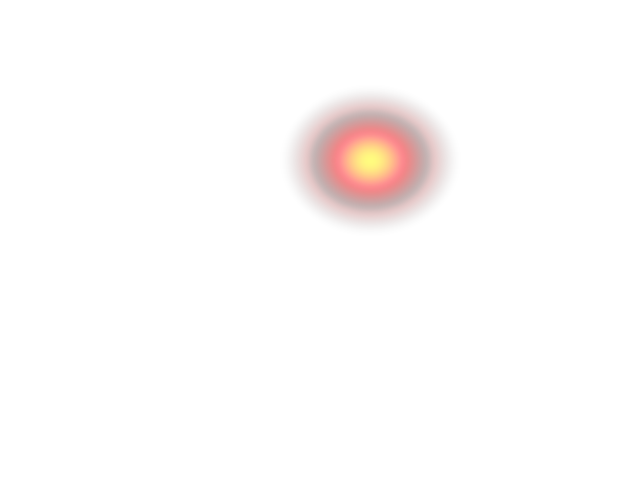
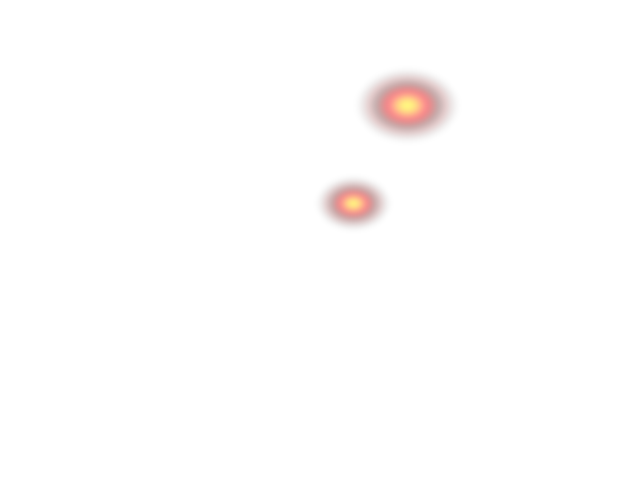
fix: multi-hotspot heatmap for scenario-08 (2 defects), improved overlay generator

Changed region(s): [[0.4375, 0.1562, 0.7188, 0.4688]]

diff --git a/backend/generate_overlays.py b/backend/generate_overlays.py
@@ -19,7 +19,10 @@ SCENARIO_DEFECTS = {
     "scenario-05": {"cx": 340, "cy": 230, "rx": 50, "ry": 40},    # contamination
     "scenario-06": {"cx": 335, "cy": 240, "rx": 50, "ry": 35},    # anomaly
     "scenario-07": {"cx": 335, "cy": 240, "rx": 50, "ry": 35},    # anomaly
-    "scenario-08": {"cx": 370, "cy": 160, "rx": 60, "ry": 50},    # pcb multi
+    "scenario-08": [
+        {"cx": 353, "cy": 203, "rx": 25, "ry": 18},   # missing cap C14
+        {"cx": 407, "cy": 105, "rx": 35, "ry": 25},   # crack on U7
+    ],
     "scenario-09": {"cx": 335, "cy": 230, "rx": 50, "ry": 35},    # anomaly
     "scenario-10": {"cx": 320, "cy": 240, "rx": 150, "ry": 30},   # scratch
     "scenario-11": {"cx": 420, "cy": 149, "rx": 40, "ry": 18},    # solder bridge on IC pins
@@ -30,76 +33,74 @@ SCENARIO_DEFECTS = {
 KIOSK_DEFECTS = {
     "839-041322-002": {"cx": 320, "cy": 240, "rx": 150, "ry": 30},
     "715-098456-003": {"cx": 390, "cy": 160, "rx": 30, "ry": 30},
-    "444-027654-002": {"cx": 370, "cy": 160, "rx": 60, "ry": 50},
+    "444-027654-002": [
+        {"cx": 353, "cy": 203, "rx": 25, "ry": 18},   # missing cap
+        {"cx": 407, "cy": 105, "rx": 35, "ry": 25},   # crack
+    ],
     "444-027654-003": {"cx": 420, "cy": 149, "rx": 40, "ry": 18},
     "444-027654-004": {"cx": 392, "cy": 240, "rx": 25, "ry": 20},
 }
 
 
 def generate_heatmap(defect: dict, filename: Path):
-    """Generate XAI heatmap — red/yellow gradient centered on defect location."""
+    """Generate XAI heatmap — red/yellow gradient. Supports single defect or list."""
     w, h = IMG_SIZE
-    cx, cy = defect["cx"], defect["cy"]
-    rx, ry = defect["rx"], defect["ry"]
+    arr = np.zeros((h, w, 4), dtype=np.float32)
 
-    # Create RGBA image (transparent background)
-    img = Image.new("RGBA", IMG_SIZE, (0, 0, 0, 0))
-    arr = np.zeros((h, w, 4), dtype=np.uint8)
+    # Support both single defect dict and list of defects
+    defects = defect if isinstance(defect, list) else [defect]
 
-    # Generate gaussian-like heatmap
-    Y, X = np.ogrid[:h, :w]
-    dist = ((X - cx) / (rx * 1.5)) ** 2 + ((Y - cy) / (ry * 1.5)) ** 2
+    for d in defects:
+        cx, cy = d["cx"], d["cy"]
+        rx, ry = d["rx"], d["ry"]
+        Y, X = np.ogrid[:h, :w]
+        dist = ((X - cx) / (rx * 1.5)) ** 2 + ((Y - cy) / (ry * 1.5)) ** 2
+        intensity = np.clip(1.0 - dist, 0, 1) ** 1.5
+        # Accumulate
+        for y in range(h):
+            for x in range(w):
+                val = float(intensity[y, x])
+                if val > 0.01:
+                    if val > 0.8:
+                        r, g, b = 255, int(255 * (val - 0.8) / 0.2), 50
+                    elif val > 0.4:
+                        r, g, b = int(255 * (val - 0.4) / 0.4), 0, 0
+                    else:
+                        r, g, b = int(180 * val / 0.4), 0, 0
+                    alpha = val * 160
+                    # Take max intensity for overlapping regions
+                    if alpha > arr[y, x, 3]:
+                        arr[y, x] = [r, g, b, alpha]
 
-    # Intensity falls off with distance
-    intensity = np.clip(1.0 - dist, 0, 1) ** 1.5
-
-    # Color: hot colormap (black → red → yellow → white)
-    for y in range(h):
-        for x in range(w):
-            val = intensity[y, x]
-            if val > 0.01:
-                if val > 0.8:
-                    r, g, b = 255, int(255 * (val - 0.8) / 0.2), 50
-                elif val > 0.4:
-                    r, g, b = int(255 * (val - 0.4) / 0.4), 0, 0
-                else:
-                    r, g, b = int(180 * val / 0.4), 0, 0
-                alpha = int(val * 160)  # Semi-transparent
-                arr[y, x] = [r, g, b, alpha]
-
-    img = Image.fromarray(arr, "RGBA")
-    # Slight blur for smoothness
+    img = Image.fromarray(arr.astype(np.uint8), "RGBA")
     img = img.filter(ImageFilter.GaussianBlur(radius=3))
-
     filename.parent.mkdir(parents=True, exist_ok=True)
     img.save(str(filename), "PNG")
 
 
 def generate_golden_diff(defect: dict, filename: Path):
-    """Generate golden comparison diff — green (OK) with red patch (deviation)."""
+    """Generate golden comparison diff. Supports single defect or list."""
     w, h = IMG_SIZE
-    cx, cy = defect["cx"], defect["cy"]
-    rx, ry = defect["rx"], defect["ry"]
-
-    # Create RGBA image
     arr = np.zeros((h, w, 4), dtype=np.uint8)
 
     # Light green tint everywhere (part matches golden reference)
-    arr[:, :, 1] = 40   # green channel
-    arr[:, :, 3] = 25   # very low alpha (subtle green wash)
+    arr[:, :, 1] = 40
+    arr[:, :, 3] = 25
 
-    # Red/magenta patch at defect location (deviation from golden)
-    Y, X = np.ogrid[:h, :w]
-    dist = ((X - cx) / (rx * 1.2)) ** 2 + ((Y - cy) / (ry * 1.2)) ** 2
-    deviation_mask = dist < 1.0
+    # Support multiple defects
+    defects = defect if isinstance(defect, list) else [defect]
 
-    # Red deviation area
-    arr[deviation_mask, 0] = 220  # red
-    arr[deviation_mask, 1] = 40   # less green
-    arr[deviation_mask, 2] = 80   # slight magenta
-    # Alpha proportional to deviation strength
-    deviation_strength = np.clip(1.0 - dist, 0, 1)
-    arr[:, :, 3] = np.where(deviation_mask, (deviation_strength * 140).astype(np.uint8)[:, :], arr[:, :, 3])
+    for d in defects:
+        cx, cy = d["cx"], d["cy"]
+        rx, ry = d["rx"], d["ry"]
+        Y, X = np.ogrid[:h, :w]
+        dist = ((X - cx) / (rx * 1.2)) ** 2 + ((Y - cy) / (ry * 1.2)) ** 2
+        deviation_mask = dist < 1.0
+        arr[deviation_mask, 0] = 220
+        arr[deviation_mask, 1] = 40
+        arr[deviation_mask, 2] = 80
+        deviation_strength = np.clip(1.0 - dist, 0, 1)
+        arr[:, :, 3] = np.where(deviation_mask, np.maximum(arr[:, :, 3], (deviation_strength * 140).astype(np.uint8)[:, :]), arr[:, :, 3])
 
     img = Image.fromarray(arr, "RGBA")
     img = img.filter(ImageFilter.GaussianBlur(radius=4))
